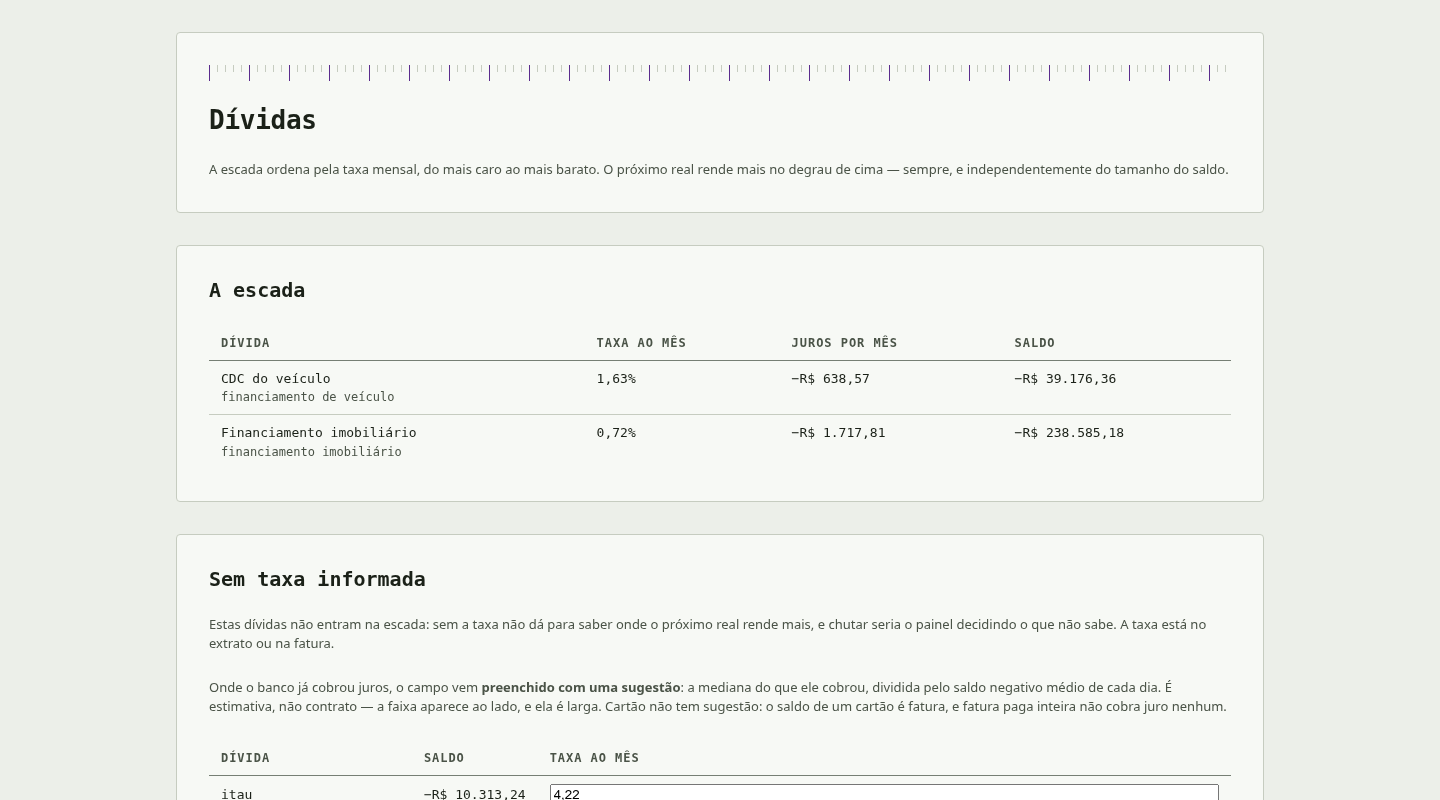
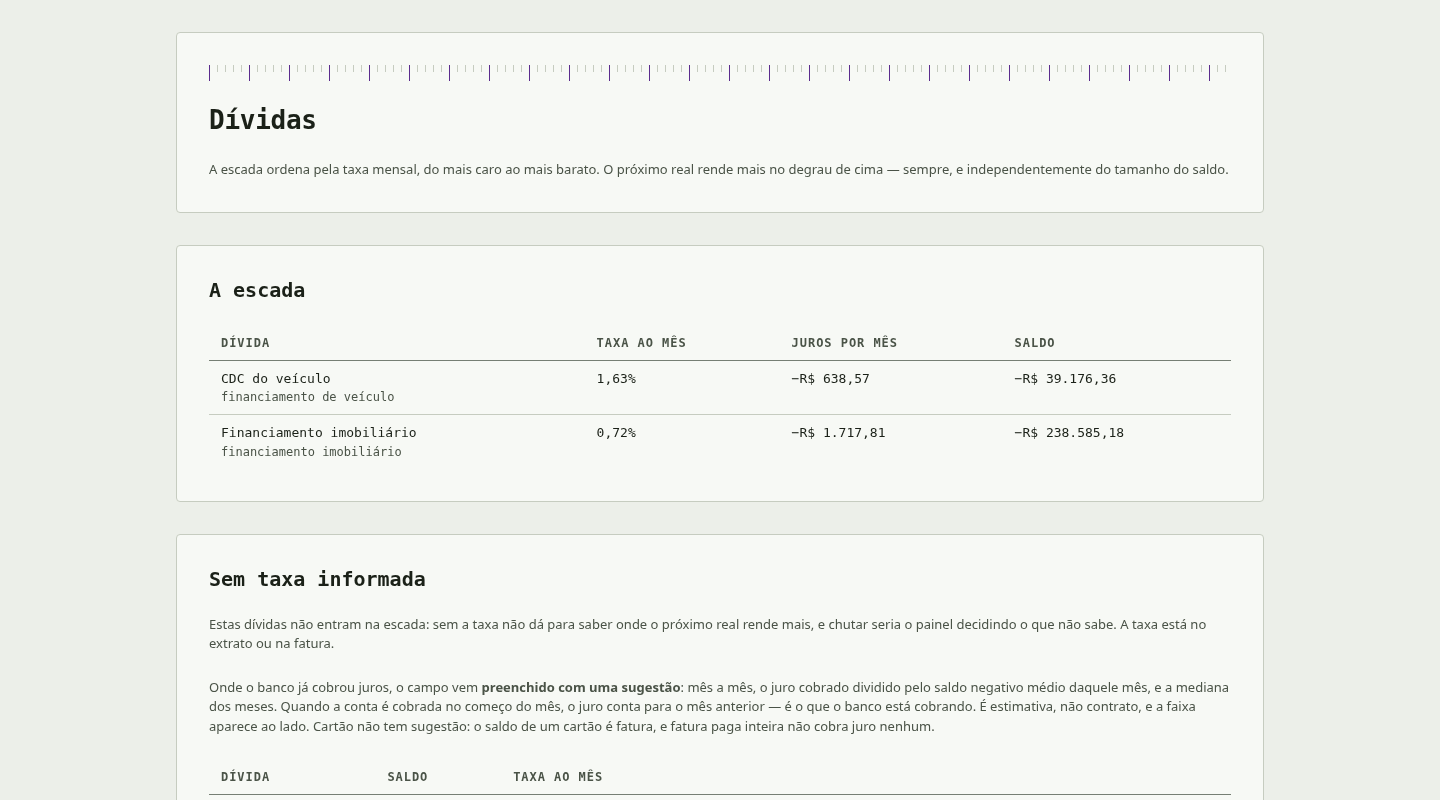
fix(014): the posting day belongs to the bank, so each account decides its own
The blind verdict approved and then measured that the arrears correction was
calibrated for one account and missed the other. CAIXA posts between the 1st and
the 3rd; itaú posts on the 6th. A fixed cut at five days reached the first and
not the second, so itaú's largest single charge — R$ 1.138,07, posted on
2026-04-07 — was attributed to April, a month the account spent entirely in the
black, and thrown away for having no negative days. Thirty-one per cent of that
account's interest vanished from the calculation.

The day of posting is a property of the bank, not of this program: each account
now decides from the median of its own postings. The suggestion for itaú goes
from 4,22% to 6,71% and the range from 2,10–6,80 to 4,58–9,84.

And the oldest month is partial by construction, because the walk stops at the
first movement — the mirror of the distortion the month in progress caused, at
the other end of the series. A month with fewer than half its days in the red is
dropped.

Changed region(s): [[0.1562, 0.8438, 0.8438, 1.0]]

diff --git a/app/templates/dividas.html b/app/templates/dividas.html
@@ -58,9 +58,11 @@
       real rende mais, e chutar seria o painel decidindo o que não sabe. A taxa está no extrato ou
       na fatura.</p>
     <p class="lede">Onde o banco já cobrou juros, o campo vem <strong>preenchido com uma
-      sugestão</strong>: a mediana do que ele cobrou, dividida pelo saldo negativo médio de cada
-      dia. É estimativa, não contrato — a faixa aparece ao lado, e ela é larga. Cartão não tem
-      sugestão: o saldo de um cartão é fatura, e fatura paga inteira não cobra juro nenhum.</p>
+      sugestão</strong>: mês a mês, o juro cobrado dividido pelo saldo negativo médio daquele
+      mês, e a mediana dos meses. Quando a conta é cobrada no começo do mês, o juro conta para o
+      mês anterior — é o que o banco está cobrando. É estimativa, não contrato, e a faixa aparece
+      ao lado. Cartão não tem sugestão: o saldo de um cartão é fatura, e fatura paga inteira não
+      cobra juro nenhum.</p>
     <div class="table-scroll">
     <table class="data-table">
       <caption class="sr-only">Dívidas sem taxa informada, do maior saldo para o menor.</caption>
@@ -82,8 +84,9 @@
             {% if seen %}
             <p class="cell-key" data-sugerida="{{ seen['median_bp'] }}"
                data-faixa="{{ seen['lowest_bp'] }}-{{ seen['highest_bp'] }}">
-              Sugestão: {{ seen['median_bp']|taxa }}, mediana dos juros que o banco cobrou em
-              {{ seen['months'] }} meses. Variou de {{ seen['lowest_bp']|taxa }} a
+              Sugestão: {{ seen['median_bp']|taxa }}. Para cada um de {{ seen['months'] }} meses,
+              o juro cobrado dividido pelo saldo negativo médio daquele mês; a sugestão é a
+              mediana desses meses. Variou de {{ seen['lowest_bp']|taxa }} a
               {{ seen['highest_bp']|taxa }} — confirme com o extrato antes de salvar.</p>
             {% endif %}
           </td>

diff --git a/app/debts/observed.py b/app/debts/observed.py
@@ -15,19 +15,26 @@ _MOVES = (
 )
 _CHARGED = (
     f"SELECT COALESCE(SUM(amount_cents), 0) AS total FROM transactions "
-    f"WHERE account_id = ? AND substr(date, 1, 7) = ? AND {_INTEREST} "
-    f"AND CAST(substr(date, 9, 2) AS INTEGER) > {(ARREARS_DAYS := 5)}"
+    f"WHERE account_id = ? AND substr(date, 1, 7) = ? AND {_INTEREST}"
 )
-_CHARGED_EARLY = (
-    f"SELECT COALESCE(SUM(amount_cents), 0) AS total FROM transactions "
-    f"WHERE account_id = ? AND substr(date, 1, 7) = ? AND {_INTEREST} "
-    f"AND CAST(substr(date, 9, 2) AS INTEGER) <= {ARREARS_DAYS}"
+_POSTING_DAYS = (
+    f"SELECT CAST(substr(date, 9, 2) AS INTEGER) AS day FROM transactions "
+    f"WHERE account_id = ? AND {_INTEREST} ORDER BY day"
 )
+
+# An account whose interest lands in the first third of the month is charging in
+# arrears. A fixed cut in days cannot decide this: one account of this base posts
+# on the 1st and another on the 6th, and a cut that reaches only the first threw
+# away 31% of the second account's interest — the largest single charge of the
+# series, for a month the account spent entirely in the black.
+EARLY_DAYS = 10
 
 # Below this, a fixed minimum fee dominates the charge and the ratio stops being
 # a rate: one month of this base shows 81% over an average balance of R$ 38.
 MIN_BALANCE_CENTS = 50000
 MIN_MONTHS = 3
+# Below this share of the month in the red, the ratio stops describing a rate.
+MIN_NEGATIVE_SHARE = 0.5
 RATE_SCALE = 10000
 
 
@@ -71,6 +78,7 @@ def observed_rates(conn: sqlite3.Connection, *, today: date) -> dict[str, dict]:
 def _monthly_rates(
     conn: sqlite3.Connection, account_id: str, days: dict, today: date
 ) -> list[tuple[str, int]]:
+    arrears = posts_in_arrears(conn, account_id)
     # The month in progress is left out: five days of balance under a whole
     # month of interest reads as a rate three times the real one, and it was that
     # partial month producing the widest end of the range shown to the owner.
@@ -79,11 +87,17 @@ def _monthly_rates(
     for month in sorted({when[:7] for when in days}):
         if month >= current:
             continue
-        charged = _charged_for(conn, account_id, month)
+        charged = _charged_for(conn, account_id, month, arrears)
         if not charged:
             continue
-        negative = [value for when, value in days.items() if when[:7] == month and value < 0]
-        if not negative:
+        in_month = [value for when, value in days.items() if when[:7] == month]
+        negative = [value for value in in_month if value < 0]
+        # A month with only a handful of days in the red divides a whole month of
+        # interest by a full average and reads far too low. It is the same
+        # distortion the month in progress caused, at the other end of the series
+        # — and the oldest month is partial by construction, because the walk
+        # stops at the first movement.
+        if len(negative) < len(in_month) * MIN_NEGATIVE_SHARE:
             continue
         average = sum(negative) / len(negative)
         if abs(average) < MIN_BALANCE_CENTS:
@@ -92,14 +106,20 @@ def _monthly_rates(
     return rates
 
 
-def _charged_for(conn: sqlite3.Connection, account_id: str, month: str) -> int:
-    # The bank charges in arrears: the interest posted in the first days of a
-    # month is the price of the month before. Matching the posting to the month
-    # it was posted in, instead of the month it remunerates, turned a contracted
-    # rate that barely moves into a range three times wider than the real one.
-    inside = conn.execute(_CHARGED, (account_id, month)).fetchone()["total"]
-    following = conn.execute(_CHARGED_EARLY, (account_id, _next(month))).fetchone()["total"]
-    return inside + following
+def posts_in_arrears(conn: sqlite3.Connection, account_id: str) -> bool:
+    # Decided per account, from the account's own postings, because the day is a
+    # property of the bank and not of this program.
+    days = [row["day"] for row in conn.execute(_POSTING_DAYS, (account_id,))]
+    return bool(days) and _median(days) <= EARLY_DAYS
+
+
+def _charged_for(conn: sqlite3.Connection, account_id: str, month: str, arrears: bool) -> int:
+    # The bank charges in arrears: the interest posted early in a month is the
+    # price of the month before. Matching the posting to the month it was posted
+    # in, instead of the month it remunerates, turned a contracted rate that
+    # barely moves into a range three times wider than the real one.
+    wanted = _next(month) if arrears else month
+    return conn.execute(_CHARGED, (account_id, wanted)).fetchone()["total"]
 
 
 def _next(month: str) -> str:
@@ -107,8 +127,11 @@ def _next(month: str) -> str:
     return f"{year + index // 12:04d}-{index % 12 + 1:02d}"
 
 
-def _median(ordered: list[int]) -> int:
+def _median(values: list[int]) -> int:
+    ordered = sorted(values)
     middle = len(ordered) // 2
     if len(ordered) % 2:
         return ordered[middle]
-    return (ordered[middle - 1] + ordered[middle]) // 2
+    # Rounded, not truncated: an even count used to answer one basis point below
+    # the middle of the two.
+    return round((ordered[middle - 1] + ordered[middle]) / 2)

diff --git a/tests/test_observed_rates.py b/tests/test_observed_rates.py
@@ -83,31 +83,60 @@ def test_a_late_payment_fine_is_not_the_price_of_carrying_a_balance(taxonomy_con
     assert observed_rates(conn, today=REFERENCE) == {}
 
 
-def test_interest_posted_in_the_first_days_belongs_to_the_month_before(taxonomy_conn):
-    from app.debts.observed import _charged_for
+def charges(conn, day):
+    from app.debts.observed import _charged_for, posts_in_arrears
 
-    rows = [
+    arrears = posts_in_arrears(conn, ACCOUNT["id"])
+    return arrears, {
+        month: _charged_for(conn, ACCOUNT["id"], month, arrears)
+        for month in ("2026-05", "2026-06", "2026-07")
+    }
+
+
+def posted_on(day):
+    return [
         transaction("c", "2026-06-01", -1000.0, descricao="Compra"),
-        # The bank posts June's price on the second of July.
-        transaction("j", "2026-07-02", -60.0, descricao="COBRANCA DE JUROS"),
+        transaction("j", f"2026-07-{day}", -60.0, descricao="COBRANCA DE JUROS"),
     ]
-    conn = account(load(taxonomy_conn, rows), -100000)
-
-    assert _charged_for(conn, ACCOUNT["id"], "2026-06") == -6000
-    assert _charged_for(conn, ACCOUNT["id"], "2026-07") == 0
 
 
-def test_interest_posted_late_in_the_month_stays_in_it(taxonomy_conn):
-    from app.debts.observed import _charged_for
+def test_an_account_that_posts_early_is_charging_in_arrears(taxonomy_conn):
+    conn = account(load(taxonomy_conn, posted_on("02")), -100000)
+    arrears, found = charges(conn, "02")
 
+    assert arrears is True
+    assert found["2026-06"] == -6000
+    assert found["2026-07"] == 0
+
+
+def test_the_boundary_is_the_account_posting_day_and_not_a_fixed_cut(taxonomy_conn):
+    # The day the real base posts on, and the day a fixed cut of five missed.
+    conn = account(load(taxonomy_conn, posted_on("06")), -100000)
+    arrears, found = charges(conn, "06")
+
+    assert arrears is True
+    assert found["2026-06"] == -6000
+
+
+def test_an_account_that_posts_late_is_not_charging_in_arrears(taxonomy_conn):
     rows = [
         transaction("c", "2026-06-01", -1000.0, descricao="Compra"),
         transaction("j", "2026-06-28", -60.0, descricao="Saída JUROS LIMITE DA CONTA"),
     ]
     conn = account(load(taxonomy_conn, rows), -100000)
+    arrears, found = charges(conn, "28")
 
-    assert _charged_for(conn, ACCOUNT["id"], "2026-06") == -6000
-    assert _charged_for(conn, ACCOUNT["id"], "2026-05") == 0
+    assert arrears is False
+    assert found["2026-06"] == -6000
+    assert found["2026-05"] == 0
+
+
+def test_the_median_of_an_even_count_is_rounded_and_not_truncated():
+    from app.debts.observed import _median
+
+    assert _median([1, 2]) == 2  # 1,5 arredonda para 2
+    assert _median([1, 2, 3, 4]) == 2  # 2,5 arredonda para o par, como o Python faz
+    assert _median([100, 300]) == 200
 
 
 def test_the_month_in_progress_is_left_out(taxonomy_conn):

diff --git a/product/items/014-taxa-sugerida-pelos-juros-cobrados/03-plan.md b/product/items/014-taxa-sugerida-pelos-juros-cobrados/03-plan.md
@@ -20,15 +20,18 @@ DASH_KEY_PATH=/tmp/dash-014.key DASH_TODAY=2026-09-05 .venv/bin/python -m app`.
       .venv/bin/python -c` com um trecho que abre o banco, chama
       `app.debts.observed.observed_rates(conn, today=date(2026, 9, 5))` e imprime
       o mapa, mostra **duas** contas: uma chamada `itau`, com `median_bp` igual a
-      `422`, `lowest_bp` igual a `210`, `highest_bp` igual a `680` e `months`
-      igual a `7`; e uma chamada `CAIXA`, com `median_bp` igual a `799` e
-      `months` igual a `5`
+      `671`, `lowest_bp` igual a `458`, `highest_bp` igual a `984` e `months`
+      igual a `7`; e uma chamada `CAIXA`, com `median_bp` igual a `800` e
+      `months` igual a `4`
 - [ ] `comando` — RF-13, RF-14
       `rtk proxy env DASH_ENV_FILE=/dev/null .venv/bin/python -m pytest -q
       tests/test_observed_rates.py` sai com código 0, e o arquivo contém um teste
-      que afirma que juros lançados nos **primeiros dias** de um mês contam para o
-      mês **anterior**, outro que afirma que juros lançados no fim do mês ficam
-      nele, e outro que afirma que o **mês em curso** não entra na lista de meses
+      que afirma que uma conta que posta cedo **cobra em atraso** e que o juro
+      conta para o mês anterior; outro que faz o mesmo com o lançamento no **dia
+      6** — o dia em que a conta real posta, e o que um corte fixo em cinco dias
+      não alcançava; outro que afirma que conta que posta no fim do mês **não**
+      cobra em atraso; outro que afirma que o **mês em curso** não entra; e outro
+      que afirma que a mediana de uma contagem par é **arredondada**
 - [ ] `comando` — RF-15
       `rtk proxy env DASH_ENV_FILE=/dev/null DASH_DB_PATH=/tmp/dash-014.sqlite
       .venv/bin/python -c` com um trecho que conta as tags do bloco
@@ -39,9 +42,9 @@ DASH_KEY_PATH=/tmp/dash-014.key DASH_TODAY=2026-09-05 .venv/bin/python -m app`.
       *Quando* `rtk proxy curl -s -b "dash_session=<cookie>"
       http://127.0.0.1:8000/dividas` é executado
       *Então* a resposta é `200`; o bloco `id="sem-taxa"` traz **exatamente
-      dois** elementos com `data-sugerida`, com os valores `422` e `799` e os
-      `data-faixa` `210-680` e `313-816`; o campo de taxa da linha do `itau` vem
-      com `value="4,22"`; e **nenhuma** linha de cartão traz `data-sugerida`
+      dois** elementos com `data-sugerida`, com os valores `671` e `800` e os
+      `data-faixa` `458-984` e `313-816`; o campo de taxa da linha do `itau` vem
+      com `value="6,71"`; e **nenhuma** linha de cartão traz `data-sugerida`
 - [ ] `comportamental` — RF-11
       *Dado* o servidor rodando e um cookie válido
       *Quando* a tela é buscada e, **sem** enviar nenhum `POST`, o banco é
@@ -68,7 +71,7 @@ DASH_KEY_PATH=/tmp/dash-014.key DASH_TODAY=2026-09-05 .venv/bin/python -m app`.
 - [ ] `comando` — portão de lint
       `rtk proxy bash scripts/lint.sh` sai com código 0
 - [ ] `comando` — RF-12
-      `rtk proxy grep -REn --exclude-dir=__pycache__ "\b(422|799|210|680|313|816)\b"
+      `rtk proxy grep -REn --exclude-dir=__pycache__ "\b(671|800|458|984|313|816)\b"
       app/debts app/routers/debts.py app/templates/dividas.html` não imprime
       nenhuma linha
 - [ ] `estrutural` — RF-10

diff --git a/product/items/014-taxa-sugerida-pelos-juros-cobrados/decisoes-autonomas.md b/product/items/014-taxa-sugerida-pelos-juros-cobrados/decisoes-autonomas.md
@@ -8,3 +8,5 @@
 | D4 | discovery | **Cartão não recebe sugestão** | Derivar do mesmo jeito que a conta | O saldo de um cartão é fatura, não dívida rotativa: fatura paga inteira não cobra juro nenhum. Os encargos que aparecem são pequenos e não são rotativo sobre o saldo — dividi-los pelo saldo daria 0,06% ao mês, um número falso numa tela que decide onde o próximo real vai. |
 | D5 | fase 1 | Juro dos **primeiros dias** conta para o mês anterior, e o **mês em curso** fica de fora | Manter o casamento por mês do lançamento | Achado do validador cego, fora da letra dos critérios — e é a diferença entre um número defensável e ruído com cara de precisão. O banco cobra em atraso: na `CAIXA` os oito lançamentos caem entre os dias 01 e 03. Casados com o mês do lançamento, as taxas saem `383, 741, 867, 1153`; casados com o mês que remuneram, ficam quase constantes. A mediana quase não muda — o que muda é a **faixa que a tela mostra ao dono**, que era artefato do alinhamento. E o extremo de 11,53% vinha do mês em curso, com cinco dias de saldo sob um mês inteiro de juros. |
 | D6 | fase 1 | O corte entre "primeiros dias" e "fim do mês" é o **dia 5** | Detectar o dia de cobrança por série | Cinco dias cobre os oito lançamentos observados (dias 01 a 03) com folga, e deixa fora os do `itau`, que caem no fim do mês e pertencem ao próprio mês. Detectar por série exigiria um histórico que três ou quatro lançamentos não sustentam. |
+| D7 | fase 1 | A decisão de "cobra em atraso" é **por conta**, tirada dos próprios lançamentos dela | Um corte fixo em dias, igual para todas | O validador mediu que o corte fixo em cinco dias alcançava a `CAIXA` (posta nos dias 1 a 3) e **não** o `itau` (posta no dia 6): a maior cobrança da série, R$ 1.138,07, era atribuída a abril — mês que a conta passou **inteiro no azul** — e descartada. Trinta e um por cento do juro do `itau` sumia da conta. A sugestão vai de 4,22% para **6,71%**, e a faixa de 2,10–6,80 para 4,58–9,84. O dia de cobrança é propriedade do banco, não deste programa: cada conta decide pela mediana dos seus próprios lançamentos. |
+| D8 | fase 1 | Mês com menos da **metade** dos dias no vermelho é descartado | Aceitar qualquer mês com um dia negativo | É a mesma distorção do mês em curso, na outra ponta: juro de mês inteiro dividido por uma média cheia lê baixo demais, e formava o piso das duas faixas. O mês mais antigo é parcial **por construção**, porque a reconstrução para no primeiro lançamento — a borda nova estava protegida e a velha não. |

diff --git a/product/items/014-taxa-sugerida-pelos-juros-cobrados/01-brief.md b/product/items/014-taxa-sugerida-pelos-juros-cobrados/01-brief.md
@@ -14,9 +14,9 @@
 - **RF-06** — Conta com menos de três meses de juros cobrados não produz
   sugestão.
 - **RF-07** — A sugestão é a **mediana** dos meses, e a tela mostra também o
-  **menor e o maior** — a faixa do `itau` vai de 2,10% a 6,80%.
-- **RF-08** — Na base de 05/09/2026 a sugestão do `itau` é **4,22% ao mês** sobre
-  7 meses, e a da `CAIXA` é **7,99%** sobre 5 meses.
+  **menor e o maior** — a faixa do `itau` vai de 4,58% a 9,84%.
+- **RF-08** — Na base de 05/09/2026 a sugestão do `itau` é **6,71% ao mês** sobre
+  7 meses, com faixa de 4,58% a 9,84%, e a da `CAIXA` é **8,00%** sobre 4 meses.
 - **RF-09** — **Cartão não recebe sugestão.** O saldo de um cartão é fatura, e
   fatura paga inteira não cobra juro; os encargos pequenos que aparecem não são
   rotativo sobre o saldo, e derivar deles daria um número falso.
@@ -24,9 +24,16 @@
   lado diz de onde ela veio, sobre quantos meses, e qual a faixa.
 - **RF-11** — Nada é gravado sem o dono salvar. A sugestão não vira fato sozinha.
 - **RF-12** — Nenhum número medido nesta base aparece como literal no código.
-- **RF-13** — Juros lançados nos **primeiros dias** de um mês contam para o mês
-  **anterior**: o banco cobra em atraso, e casar o lançamento com o mês em que
-  ele caiu inventa uma faixa três vezes mais larga que a real.
+- **RF-13** — Se os lançamentos de juros de uma conta caem, **em mediana**, nos
+  dez primeiros dias do mês, ela cobra em atraso, e todos os seus lançamentos
+  contam para o mês anterior. A decisão é **por conta**, tirada dos próprios
+  lançamentos dela: um corte fixo em dias alcançava a conta que posta no dia 1º e
+  **não** a que posta no dia 6, jogando fora 31% do juro dessa segunda — a maior
+  cobrança da série, atribuída a um mês que a conta passou inteiro no azul.
+- **RF-16** — Mês com menos da **metade** dos dias no vermelho é descartado: um
+  juro de mês inteiro dividido por uma média cheia lê baixo demais. É a mesma
+  distorção do mês em curso, na outra ponta — e o mês mais antigo é parcial por
+  construção, porque a reconstrução para no primeiro lançamento.
 - **RF-14** — O **mês em curso** não entra: cinco dias de saldo sob um mês
   inteiro de juros lê como uma taxa três vezes a real, e era ele quem produzia o
   extremo superior da faixa mostrada.
